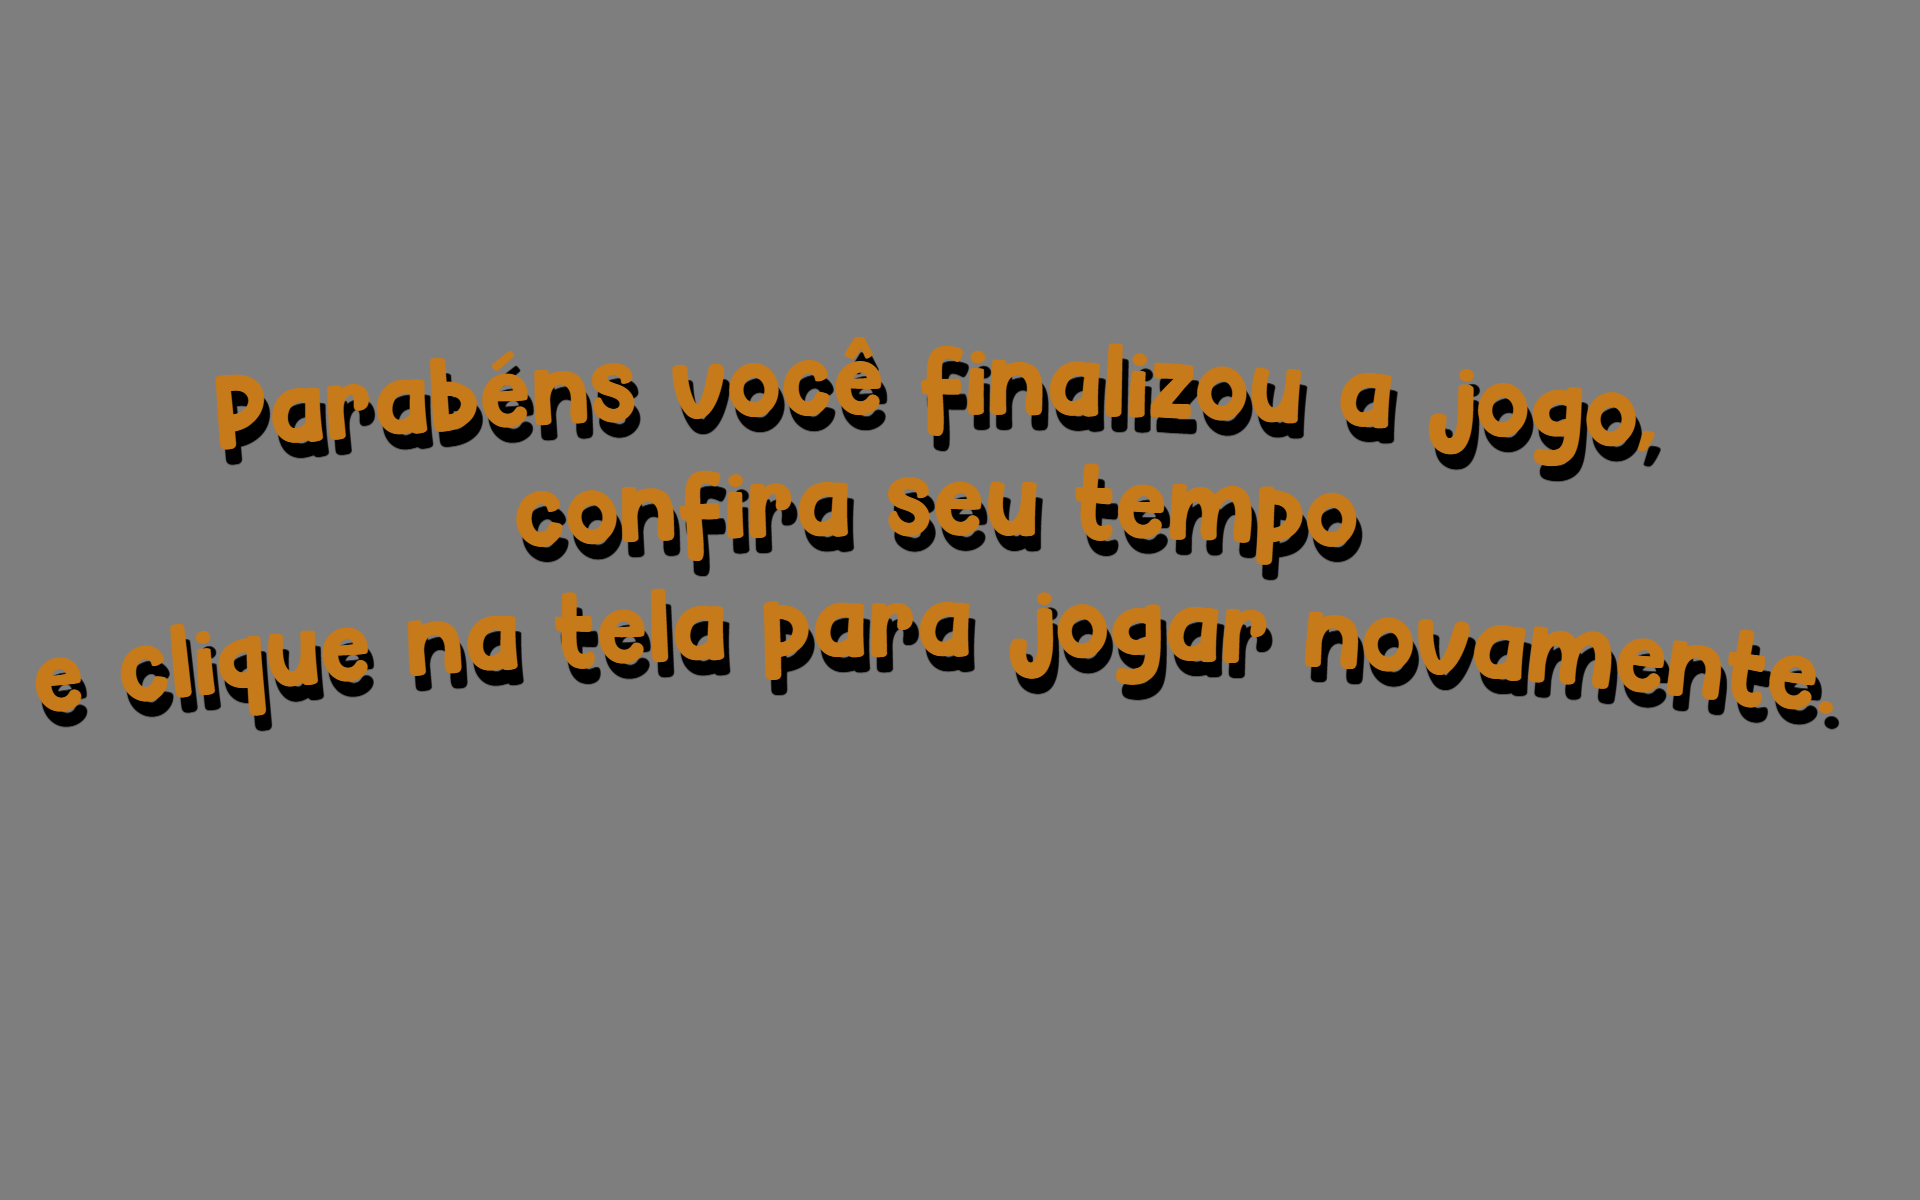
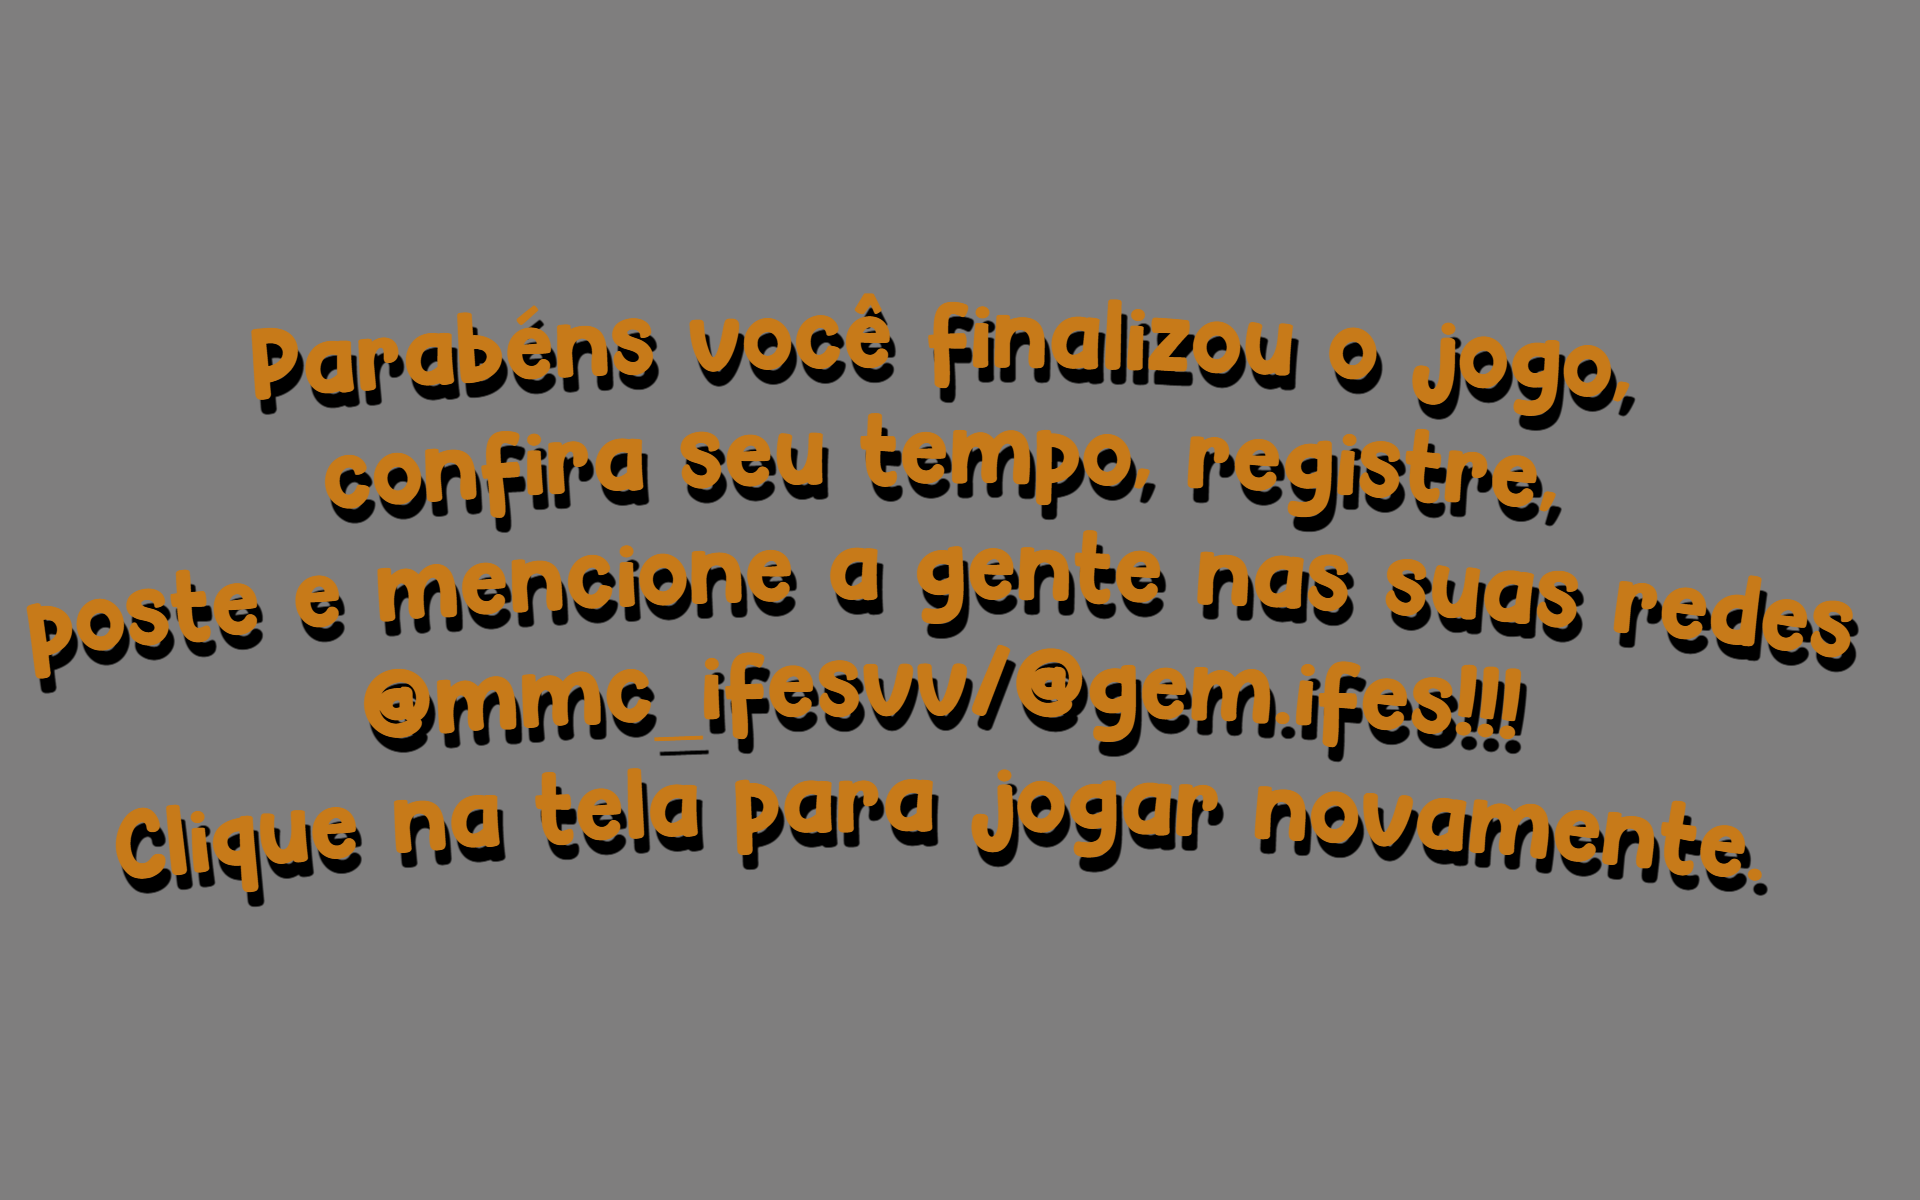
Alteração de imagem
foi alterado a imagem do end game e criado uma classe pro timer

Changed region(s): [[0.0, 0.2467, 0.9688, 0.7708]]

diff --git a/Jogodos/jogo/jogo.html b/Jogodos/jogo/jogo.html
@@ -22,7 +22,7 @@
 	</div>
 	<div id="intro" class="screen"></div>
 	<div id="gameOver" class="screen"></div>
-	<div id="timerDisplay"></div> <!-- Adicionado aqui -->
+	<div id="timerDisplay" class="cron"></div> <!-- Adicionado aqui -->
 	
 	<script src="js/script.js"></script>
 </body>
